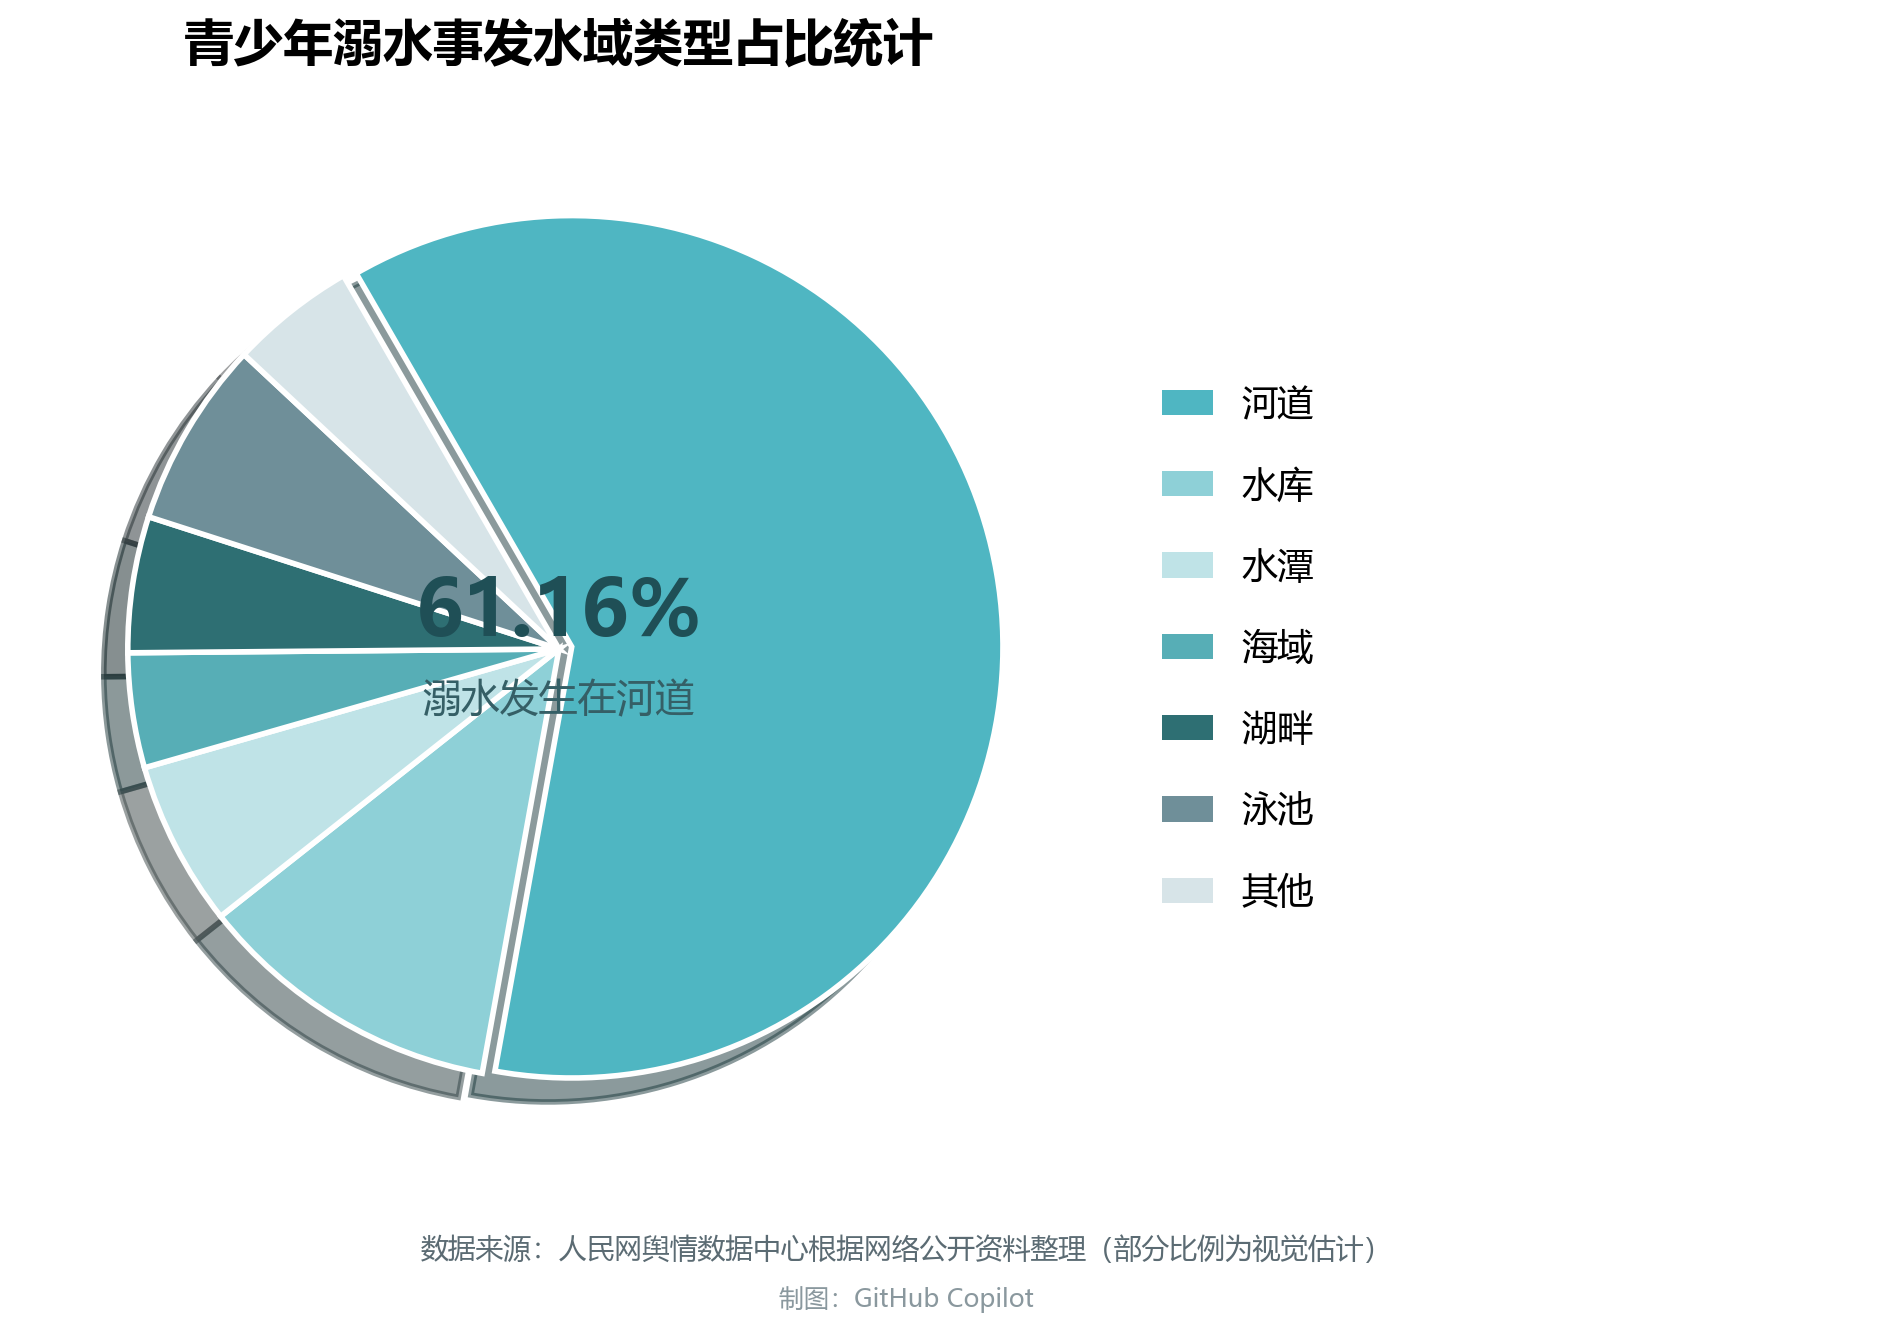
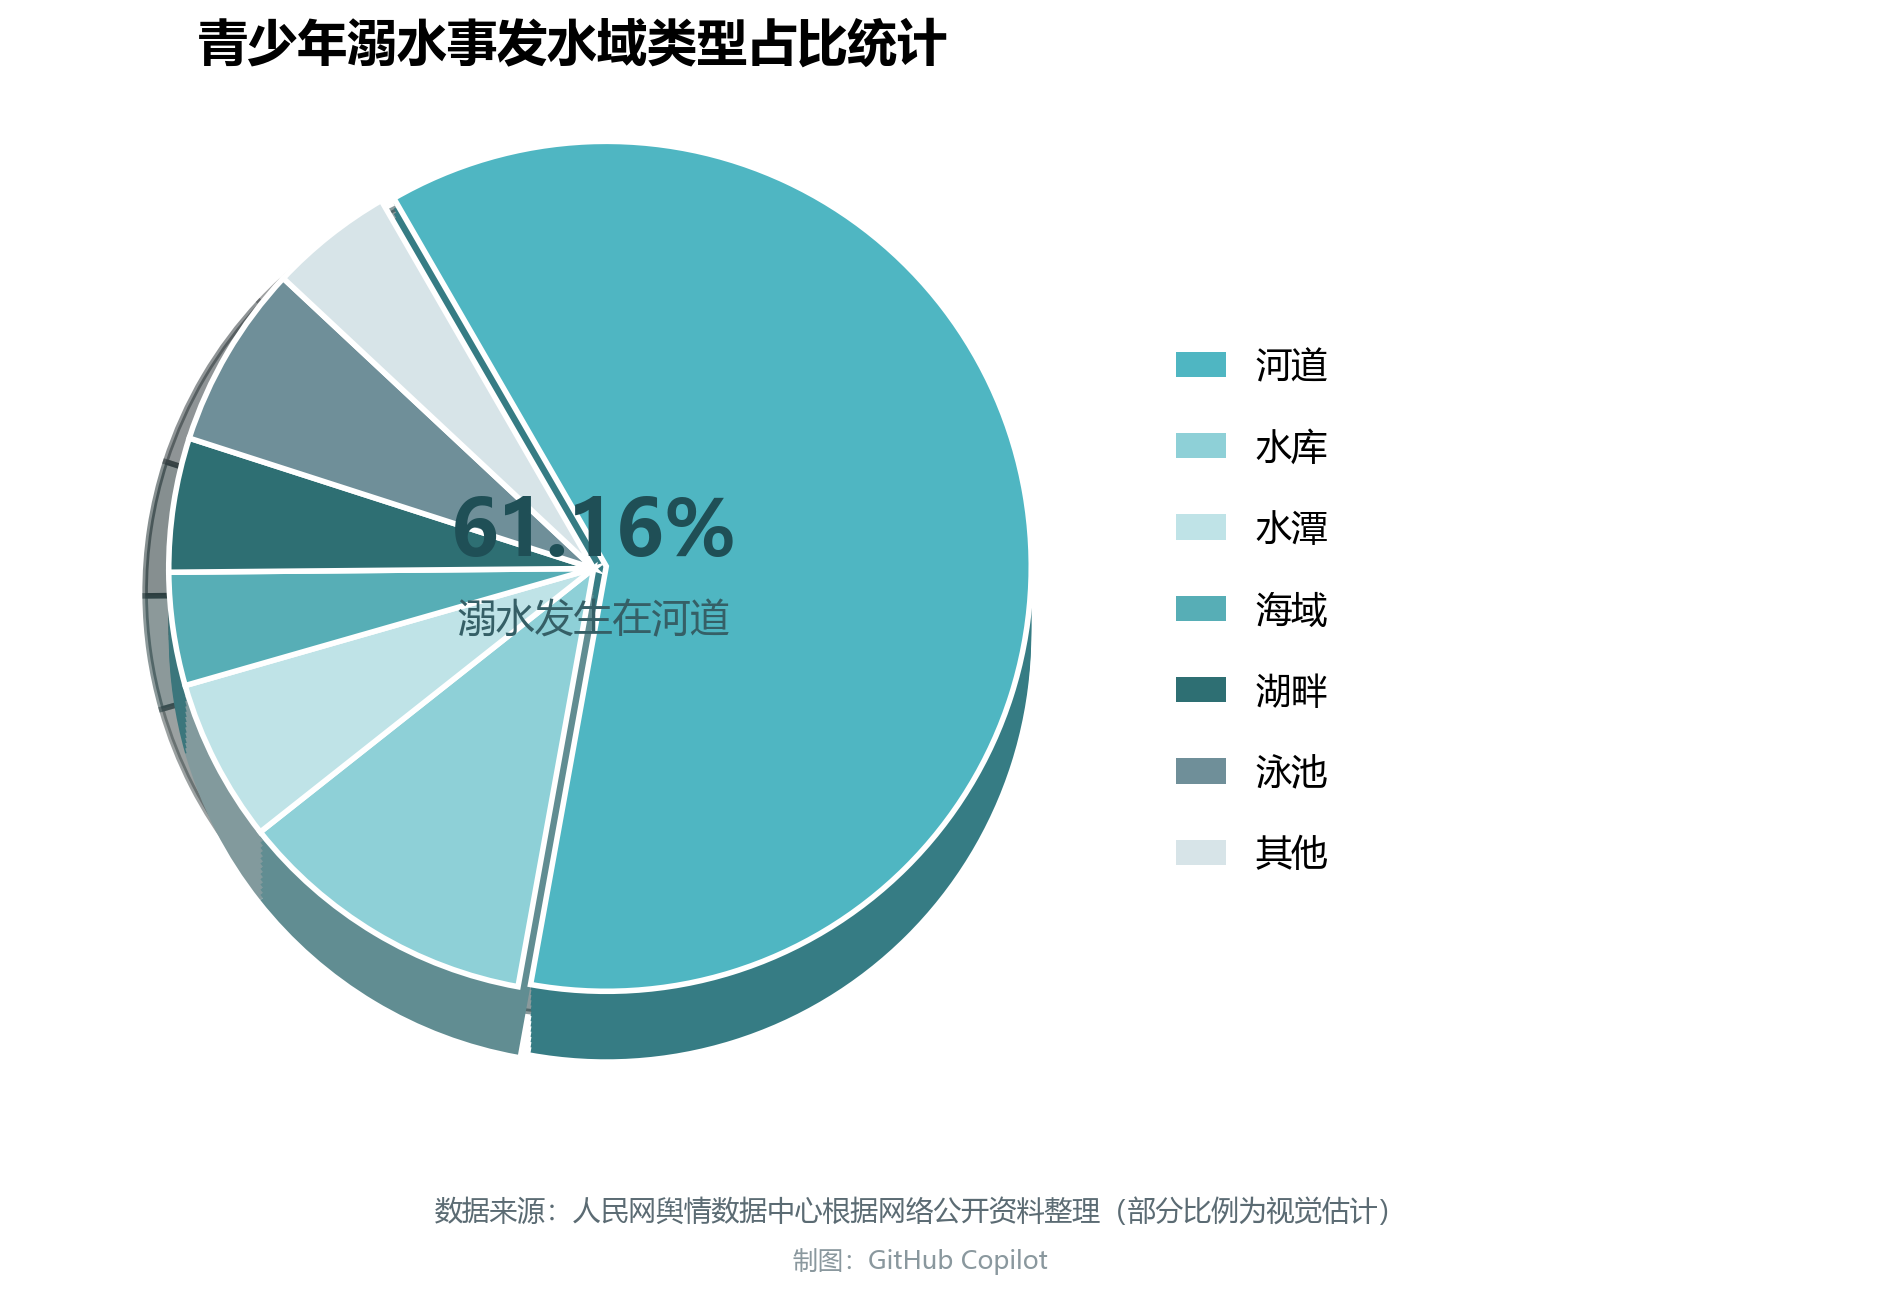
vault backup: 2026-03-08 13:31:30

diff --git a/tools/plot_drowning_water_types.py b/tools/plot_drowning_water_types.py
@@ -11,6 +11,7 @@
 from pathlib import Path
 
 import matplotlib.pyplot as plt
+from matplotlib import colors as mcolors
 from matplotlib.patches import Patch
 
 
@@ -51,6 +52,11 @@ def configure_matplotlib() -> None:
     plt.rcParams["savefig.facecolor"] = "white"
 
 
+def darken_color(color: str, factor: float = 0.72) -> tuple[float, float, float]:
+    r, g, b = mcolors.to_rgb(color)
+    return (r * factor, g * factor, b * factor)
+
+
 def main() -> None:
     configure_matplotlib()
 
@@ -61,6 +67,7 @@ def main() -> None:
     labels = list(DATA.keys())
     values = list(DATA.values())
     colors = [COLORS[label] for label in labels]
+    depth_colors = [darken_color(color, 0.68) for color in colors]
     explode = [0.03 if label == "河道" else 0 for label in labels]
 
     fig = plt.figure(figsize=(12, 7), dpi=200)
@@ -69,12 +76,29 @@ def main() -> None:
     ax_pie = fig.add_subplot(gs[0, 0])
     ax_legend = fig.add_subplot(gs[0, 1])
 
+    depth = 0.16
+    layers = 14
+    for i in range(layers):
+        offset = -depth + (i / (layers - 1)) * depth
+        ax_pie.pie(
+            values,
+            colors=depth_colors,
+            startangle=120,
+            counterclock=False,
+            explode=explode,
+            radius=1.0,
+            center=(0, offset),
+            wedgeprops={"edgecolor": "none", "linewidth": 0},
+        )
+
     wedges, _ = ax_pie.pie(
         values,
         colors=colors,
         startangle=120,
         counterclock=False,
         explode=explode,
+        radius=1.0,
+        center=(0, 0),
         wedgeprops={"edgecolor": "white", "linewidth": 2},
         shadow=True,
     )
@@ -99,6 +123,8 @@ def main() -> None:
         color="#355F66",
     )
     ax_pie.set(aspect="equal")
+    ax_pie.set_xlim(-1.35, 1.25)
+    ax_pie.set_ylim(-1.28, 1.08)
     ax_pie.set_title(TITLE, fontsize=18, fontweight="bold", pad=18)
 
     legend_handles = [Patch(facecolor=COLORS[label], edgecolor="none", label=label) for label in labels]
